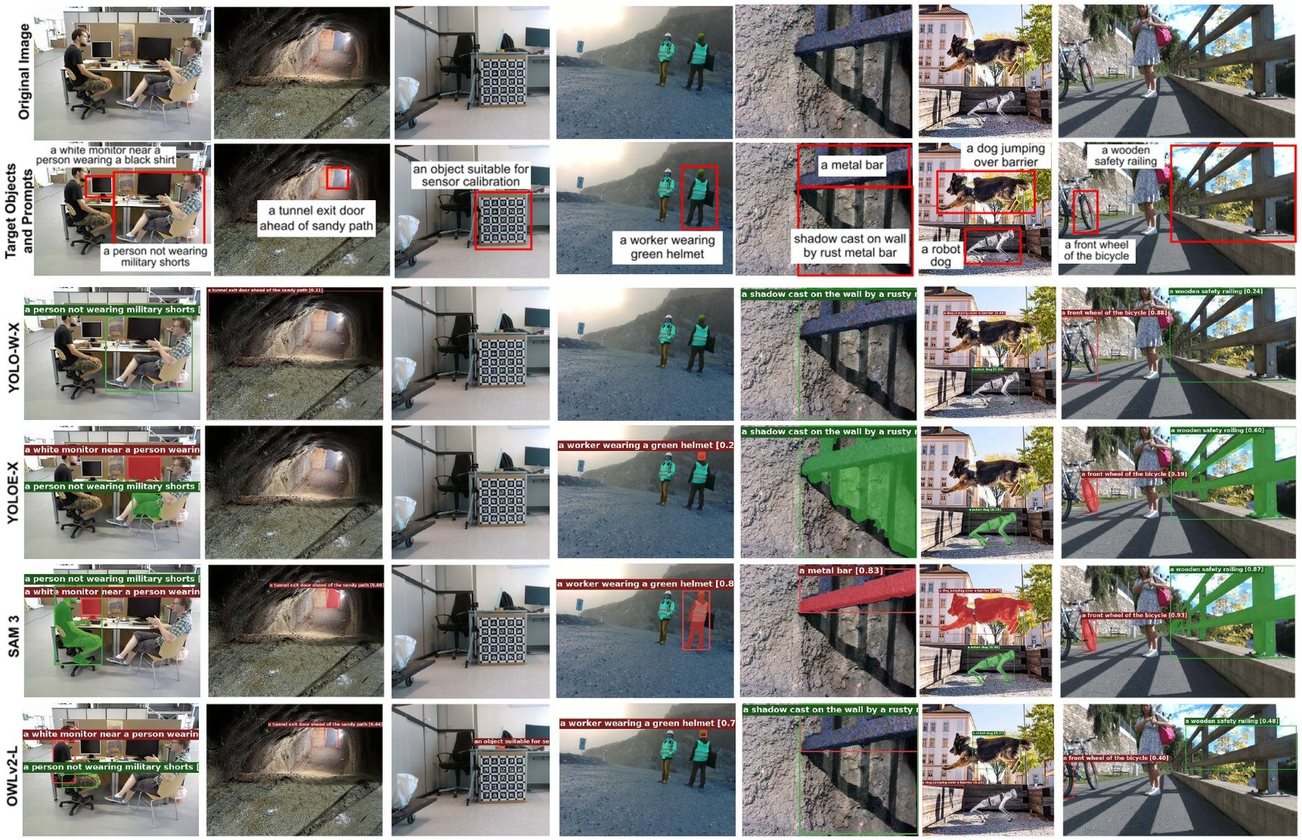
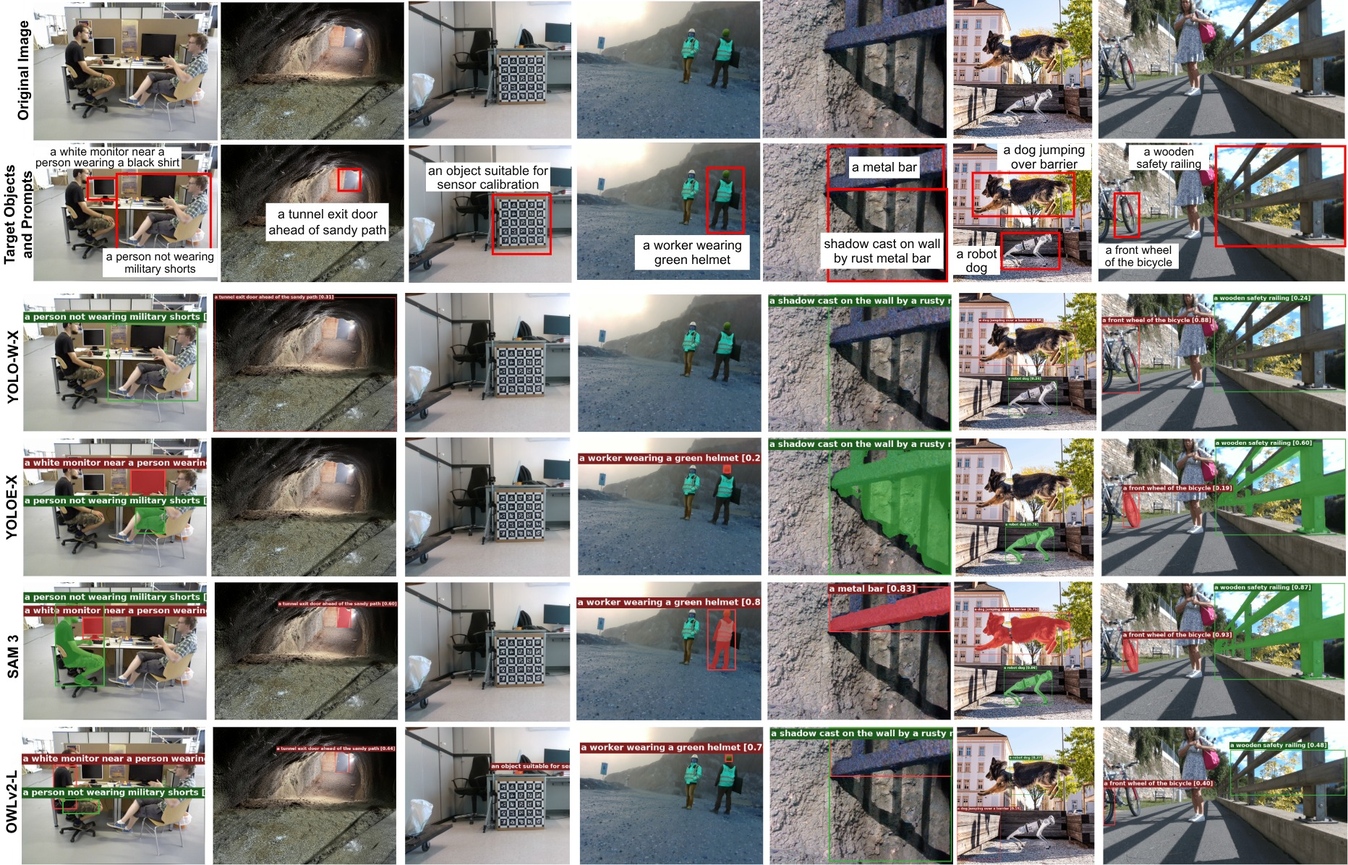
Add files via upload

diff --git a/docs/index.html b/docs/index.html
@@ -4,7 +4,7 @@
 <meta charset="utf-8">
 <meta name="viewport" content="width=device-width, initial-scale=1, viewport-fit=cover">
 <title>Pro-Bench: Prompt-Robust Open-Vocabulary Visual Grounding</title>
-<meta name="description" content="Pro-Bench tests whether open-vocabulary models find the same target however an operator phrases the request: 13k+ real robot frames, 74.5k instances, 515 queries, 16 models.">
+<meta name="description" content="Pro-Bench investigates whether open-vocabulary models locate the same target however an operator phrases the request: 13k+ real robot frames, 74.5k instances, 515 queries, 16 models.">
 <meta property="og:title" content="Pro-Bench: Prompt-Robust Open-Vocabulary Visual Grounding">
 <meta property="og:description" content="Same target, three phrasings, sixteen models. A benchmark for prompt robustness in real robot deployments.">
 <meta property="og:type" content="website">
@@ -52,8 +52,8 @@ a{color:var(--f-orig);text-underline-offset:3px}
 h1,h2,h3{margin:0;line-height:1.15}
 h2{font:700 40px/1.05 var(--cond);letter-spacing:-.005em;margin-bottom:14px}
 h3{font-size:19px;font-weight:600}
-p{margin:0 0 1em;max-width:68ch}
-.lede{font-size:19px;color:var(--ink-2);max-width:62ch}
+p{margin:0 0 1em;max-width:none}
+.lede{font-size:19px;color:var(--ink-2);max-width:none}
 section{padding:84px 0 0}
 .muted{color:var(--ink-3)}
 .fo{color:var(--f-orig)} .fc{color:var(--f-cat)} .ft{color:var(--f-tmpl)}
@@ -119,7 +119,7 @@ section{padding:84px 0 0}
 .findings{display:grid;grid-template-columns:repeat(2,minmax(0,1fr));gap:18px 40px;margin:28px 0 8px}
 .finding{border-top:2px solid var(--ink);padding-top:12px}
 .finding h3{margin-bottom:6px}
-.finding p{color:var(--ink-2);font-size:16px;margin:0}
+.finding p{color:var(--ink-2);font-size:16px;margin:none}
 .panel{background:var(--raised);border:1px solid var(--rule);border-radius:var(--r);padding:22px 24px;margin-top:28px}
 .panel-head{display:flex;flex-wrap:wrap;align-items:flex-end;gap:12px 24px;margin-bottom:14px}
 .panel-head h3{font-size:20px}
@@ -170,7 +170,7 @@ table{border-collapse:collapse;width:100%;font-size:15px}
 .taxo q{quotes:"\201C" "\201D"}
 figure.fig{margin:48px 0 0}
 figure.fig .imgbox{background:#fff;border:1px solid var(--rule);border-radius:var(--r);padding:12px;overflow:hidden}
-figure.fig figcaption{font-size:14.5px;color:var(--ink-3);margin-top:10px;max-width:90ch}
+figure.fig figcaption{font-size:14.5px;color:var(--ink-3);margin-top:10px;max-width:none}
 
 /* ---------- protocol ---------- */
 .forms3{display:grid;grid-template-columns:repeat(3,minmax(0,1fr));gap:14px;margin:24px 0 36px}
@@ -301,8 +301,9 @@ footer .wrap{display:flex;flex-wrap:wrap;gap:12px 28px;justify-content:space-bet
       <p>We benchmarked 16 open-vocabulary model configurations in strict zero-shot inference, measuring localisation accuracy across IoU thresholds, end-to-end inference latency, prompt-induced performance variation, and target recovery consistency. Our results show that prompt-robustness is strongly architecture-dependent. Most model configurations (10/16) perform best with short category labels, whereas free-form queries yield the highest accuracy for only one. Moreover, similar aggregate mAP can conceal substantial differences in consistent target recovery across reformulations. Pro-Bench enables systematic evaluation of these gaps and supports prompt-robust visual grounding.</p>
     </div>
     <dl class="facts" aria-label="Benchmark at a glance">
+      <h2>Benchmark at a glance</h2>
       <div><dt>13k+</dt><dd>RGB frames captured by real robots, no web or synthetic imagery</dd></div>
-      <div><dt>74.5k</dt><dd>hand-drawn polygon instances, boxes and masks in COCO format</dd></div>
+      <div><dt>74.5k</dt><dd>human-annotated polygon-based instances, boxes and masks in COCO format</dd></div>
       <div><dt>515</dt><dd>operator-style queries, each with three target-preserving formulations</dd></div>
       <div><dt>8</dt><dd>semantic prompt types, from categorical to compositional</dd></div>
       <div><dt>16</dt><dd>model configurations, evaluated strictly zero-shot on one RTX 4090</dd></div>
@@ -312,8 +313,8 @@ footer .wrap{display:flex;flex-wrap:wrap;gap:12px 28px;justify-content:space-bet
 
 <section id="findings">
   <div class="wrap">
-    <h2>What the benchmark found</h2>
-    <p class="lede">An operator can ask for the same object in several ways. Most current models reward the shortest phrasing, and some break on harmless rewording.</p>
+    <h2>What Pro-Bench found</h2>
+    <p class="lede">An operator can refer to the same object in several ways. Most current open-vocabulary models performed exceptionally well with the shortest phrasing, and some break on harmless rewording.</p>
     <div class="findings">
       <div class="finding"><h3>Short labels still win</h3><p>10 of 16 configurations score highest with the categorical label, 5 with the template form, and only YOLOE-X with the operator's free-form query.</p></div>
       <div class="finding"><h3>A template can break a model</h3><p>Prefixing "a photo of" drops SAM3 from 0.417 to 0.044 mAP.5, while G-DINO-T gains 0.069 from the same change.</p></div>
@@ -334,7 +335,7 @@ footer .wrap{display:flex;flex-wrap:wrap;gap:12px 28px;justify-content:space-bet
         </div>
       </div>
       <div class="chart" id="sensChart"></div>
-      <p class="caption">Best formulation across the 16 configurations:</p>
+      <p class="caption">Best formulation across the 16 model configurations:</p>
       <div class="tally" id="tally" aria-label="Best formulation counts"></div>
     </div>
   </div>
@@ -343,38 +344,38 @@ footer .wrap{display:flex;flex-wrap:wrap;gap:12px 28px;justify-content:space-bet
 <section id="benchmark">
   <div class="wrap">
     <h2>The benchmark</h2>
-    <p class="lede">Frames come from real robot sensors in five kinds of environment, so the models face low light, occlusion, odd viewpoints and domain-specific objects. Select a scene to see its annotated targets.</p>
+    <p class="lede">RGB frames are curated from real robot sensors in five heterogeneous environments, enabling the models to face low light, occlusion, odd viewpoints and domain-specific objects characteristic of real-world scenarios. Click on a scene below to see the target annotations.</p>
     <div class="gallery" id="gallery"></div>
 
     <div class="cols">
       <div>
-        <h3 style="margin-bottom:14px">Where the frames come from</h3>
+        <h3 style="margin-bottom:14px">Where the data come from:</h3>
         <dl class="sources">
-          <div><dt>Subterranean and industrial</dt><dd>Tunnels, quarries, mines and excavation sites from DARPA SubT, EnvoDat, Hilti-SLAM and GOOSE-Ex.</dd></div>
-          <div><dt>Outdoor and urban</dt><dd>Forest trails, unstructured terrain and street scenes from EnvoDat, GOOSE-Ex, KITTI, MCD and our own campus recordings.</dd></div>
-          <div><dt>Indoor and laboratory</dt><dd>Offices, labs and tabletops with clutter and look-alike objects, from TUM RGB-D, EnvoDat and in-house scenes.</dd></div>
-          <div><dt>Annotation</dt><dd>Seven annotators drew fine polygon boundaries for common and uncommon objects, and a separate reviewer checked every annotation against its query. Object sizes: 51.3% large, 28.4% medium, 20.3% small; median mask area is 2.5% of the image.</dd></div>
+          <div><dt>1) Subterranean and industrial</dt><dd>Tunnels, quarries, mines and excavation sites from DARPA SubT, EnvoDat, Hilti-SLAM and GOOSE-Ex.</dd></div>
+          <div><dt>2) Outdoor and urban</dt><dd>Forest trails, unstructured terrain and street scenes from EnvoDat, GOOSE-Ex, KITTI, MCD and our own campus recordings.</dd></div>
+          <div><dt>3) Indoor and laboratory</dt><dd>Offices, labs and tabletops with clutter and look-alike objects, from TUM RGB-D, EnvoDat and in-house scenes.</dd></div>
+        <h3 style="margin-bottom:8px">Data Annotation:</h3>
+        <p>Each RGB frame is annotated with a free-form query and at least one semantic type, from which the categorical and template-wrapped variants are derived. Seven annotators contributed fine polygon boundaries for common and uncommon objects, and a separate reviewer checked every annotation against its query. Object sizes: 51.3% large, 28.4% medium, 20.3% small; median mask area is 2.5% of the image.</p> 
         </dl>
       </div>
       <div>
-        <h3 style="margin-bottom:8px">Eight kinds of query</h3>
+        <h3 style="margin-bottom:8px">Eight semantic prompt types:</h3>
         <table class="taxo">
           <thead><tr><th>Type</th><th>Identifies the target by</th><th>Example</th></tr></thead>
           <tbody id="taxo"></tbody>
         </table>
       </div>
     </div>
-
     <figure class="fig">
-      <div class="imgbox"><img src="assets/fig2_pipeline.jpg" alt="Pro-Bench construction pipeline: multi-domain scenes, human annotation of target instances, prompt construction with eight semantic types and three formulations, and dataset statistics." loading="lazy" width="1800" height="684"></div>
-      <figcaption>Construction pipeline and dataset statistics. Each target gets a human-written free-form query and at least one semantic type, from which the categorical and template-wrapped variants are derived.</figcaption>
+      <div class="imgbox"><img src="assets/fig2_pipeline.jpg" alt="Pro-Bench construction pipeline: multi-domain scenes, human annotation of target instances, prompt construction with eight semantic types and three formulations, and dataset statistics." loading="lazy" width="1500" height="500"></div>
+      <figcaption>Pro-Bench construction pipeline and dataset statistics. Given the RGB frames curated from multidomain robotic datasets that depict realistic robot operating scenarios (1), we provide annotations for task-relevant targets with fine-grained polygon-based masks (2). Each target is associated with a human-defined free-form query and at least one semantic prompt category, from which we derive the categorical and template-wrapped variants for prompt-sensitivity evaluation (3). The final panel (4) summarises the resulting Pro-Bench dataset statistics</figcaption>
     </figure>
   </div>
 </section>
 
 <section id="protocol">
   <div class="wrap">
-    <h2>Measuring prompt robustness</h2>
+    <h2>Prompt robustness quantification</h2>
     <p class="lede">Every target is queried three ways. Each formulation keeps the same referent, so a robust model should find the same object every time.</p>
     <div class="forms3">
       <div class="form3" style="border-top-color:var(--f-orig)"><h3 class="fo">Original <span class="muted">p<sup>orig</sup></span></h3>
@@ -407,7 +408,7 @@ footer .wrap{display:flex;flex-wrap:wrap;gap:12px 28px;justify-content:space-bet
 <section id="results">
   <div class="wrap">
     <h2>Results</h2>
-    <p class="lede">All 16 configurations run zero-shot with frozen public weights and each model's own prompt interface. Latency is end-to-end on one RTX 4090, after three warm-up passes.</p>
+    <p class="lede">All the 16 model configurations are evaluated in strict zero-shot with frozen public weights and each model's own prompt interface. Latency is end-to-end on RTX 4090, after three warm-up passes.</p>
 
     <div class="panel">
       <div class="panel-head">
@@ -446,7 +447,7 @@ footer .wrap{display:flex;flex-wrap:wrap;gap:12px 28px;justify-content:space-bet
     <h2>Qualitative examples</h2>
     <p class="lede">A model can find the right region yet box it far too loosely, or miss a target that is plainly visible when the query describes it indirectly. No representative model returns a valid box for "an object suitable for sensor calibration", although the calibration board fills the frame.</p>
     <figure class="fig" style="margin-top:24px">
-      <div class="imgbox"><img src="assets/fig6_qualitative.jpg" alt="Grid of seven scenes. Rows show the original image, the target queries with ground-truth boxes, and top-confidence predictions from YOLO-World-X, YOLOE-X, SAM 3 and OWLv2-L." loading="lazy" width="1800" height="1162"></div>
+      <div class="imgbox"><img src="assets/fig6_qualitative.jpg" alt="Grid of seven scenes. Rows show the original image, the target queries with ground-truth boxes, and top-confidence predictions from YOLO-World-X, YOLOE-X, SAM 3 and OWLv2-L." loading="lazy" width="1800" height="900"></div>
       <figcaption>Top-confidence prediction per query for four representative models: real-time detection (YOLO-W-X, YOLOE-X), open-vocabulary segmentation (SAM3) and a transformer detector (OWLv2-L).</figcaption>
     </figure>
   </div>
@@ -455,7 +456,7 @@ footer .wrap{display:flex;flex-wrap:wrap;gap:12px 28px;justify-content:space-bet
 <section id="demo">
   <div class="wrap">
     <h2>Live demo</h2>
-    <p class="lede">The demo runs all 16 configurations side by side on your own images or a live camera, including RealSense depth, and shows the prompt-robustness protocol on a single scene.</p>
+    <p class="lede">The demo runs all the 16 model configurations side by side on your own images or a live camera, including RealSense depth, and shows the prompt-robustness protocol on a single scene.</p>
     <div class="demo">
       <div class="video" id="videoBox">
         <video id="demoVideo" controls playsinline preload="metadata" poster="" hidden></video>
@@ -513,7 +514,7 @@ const ASSET = {"bar.jpg": "assets/bar.jpg", "bar_ann.jpg": "assets/bar_ann.jpg",
    "coming soon" and are not clickable.
 ------------------------------------------------------------------ */
 const LINKS = {
-  paper:   "",   // e.g. https://arxiv.org/abs/2609.xxxxx
+  paper:   "https://arxiv.org/abs/2609.27076",   // e.g. https://arxiv.org/abs/2609.xxxxx
   pdf:     "",
   code:    "",   // e.g. https://github.com/<org>/pro-bench
   dataset: "",   // e.g. https://huggingface.co/datasets/<org>/pro-bench
@@ -781,7 +782,7 @@ function renderTable() {
 /* ---------------- gallery + taxonomy ---------------- */
 const SCENES = [
   {k: "excavation", dom: "Industrial: excavation site", q: ["a worker wearing yellow helmet", "a cone closer to the person wearing black jacket"], alt: "An excavator bucket in a construction pit behind orange barriers, with two workers."},
-  {k: "office", dom: "Indoor: office", q: ["a white monitor near a person wearing black shirt", "a person wearing military short"], alt: "Two people seated at desks with monitors in an open-plan office."},
+  {k: "office", dom: "Indoor: office", q: ["a white monitor near a person wearing black shirt", "a person wearing military short", "..."], alt: "Two people seated at desks with monitors in an open-plan office."},
   {k: "dog", dom: "Urban scene", q: ["a dog jumping over barrier", "a robot dog"], alt: "A dog leaping over a wooden barrier next to a quadruped robot."},
   {k: "barrels", dom: "Outdoor: unstructured terrain", q: ["a blue barrel on top of a blue barrel"], alt: "Blue barrels and debris on dark soil in low light."},
   {k: "bar", dom: "Outdoor: structure close-up", q: ["a metal bar", "shadow cast on wall by rust metal bar"], alt: "A rusty metal bar casting a shadow across a rough concrete wall."},
